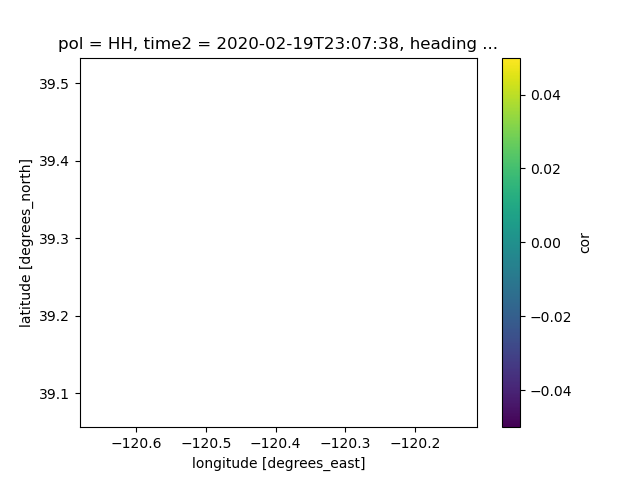
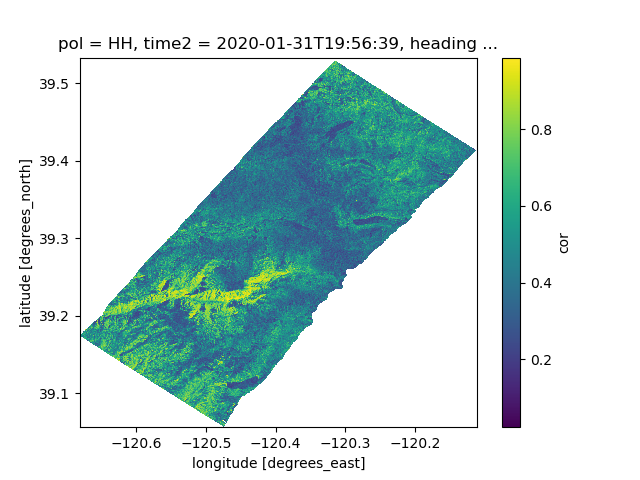
making coherence images to test nans

diff --git a/src/data_acquisition/uavsar/make_netcdf.py b/src/data_acquisition/uavsar/make_netcdf.py
@@ -50,6 +50,7 @@ for site in np.unique([k.split('_')[0] for k in uavsars.keys()]):
         if heading not in headings: headings[heading] = fp
 
         pol = fp.stem.split('_')[-2][4:]
+
         lat_ddeg, lon_ddeg = float(ann.loc['value', 'grd_phs.row_mult']), float(ann.loc['value', 'grd_phs.col_mult'])
         lat, lon = float(ann.loc['value', 'grd_mag.row_addr']), float(ann.loc['value', 'grd_mag.col_addr'])
 
@@ -83,9 +84,19 @@ for site in np.unique([k.split('_')[0] for k in uavsars.keys()]):
         plt.close()
 
     ds = ds.dropna('x', how = 'all').dropna('y', how = 'all')
-    ds['cor'].isel(time1 = 0, time2 = 1, heading = 0, pol = 0).plot()
-    plt.savefig(fig_dir.joinpath('coherence', site + '_cor.png'))
-    plt.close()
+
+    ds['time1'] = pd.to_datetime(ds.time1)
+    ds['time2'] = pd.to_datetime(ds.time2)
+
+    from itertools import product
+    for t1, t2 in product(ds.time1, ds.time2):
+        if (~ds['cor'].sel(time1 = t1, time2 = t2).isel(heading = 0, pol = 0).isnull()).sum() == 0: continue
+        
+        ds['cor'].sel(time1 = t1, time2 = t2).isel(heading = 0, pol = 0).plot()
+        plt.savefig(fig_dir.joinpath('coherence', site + '_cor.png'))
+        plt.close()
+        break
+
     print(ds)
 
     # ds.to_netcdf(out_dir.joinpath(site + '.nc'))
